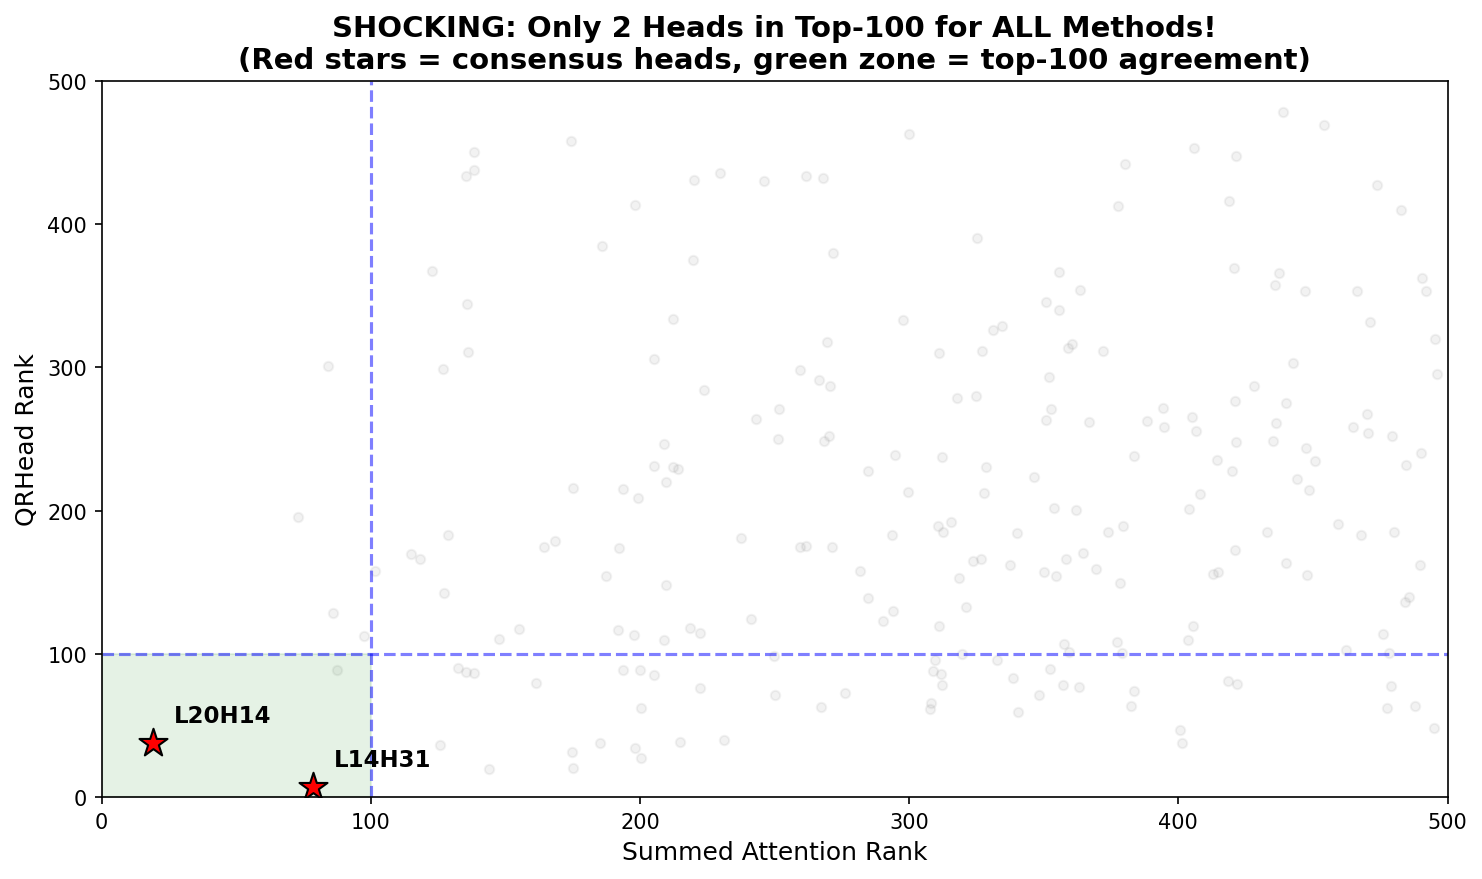
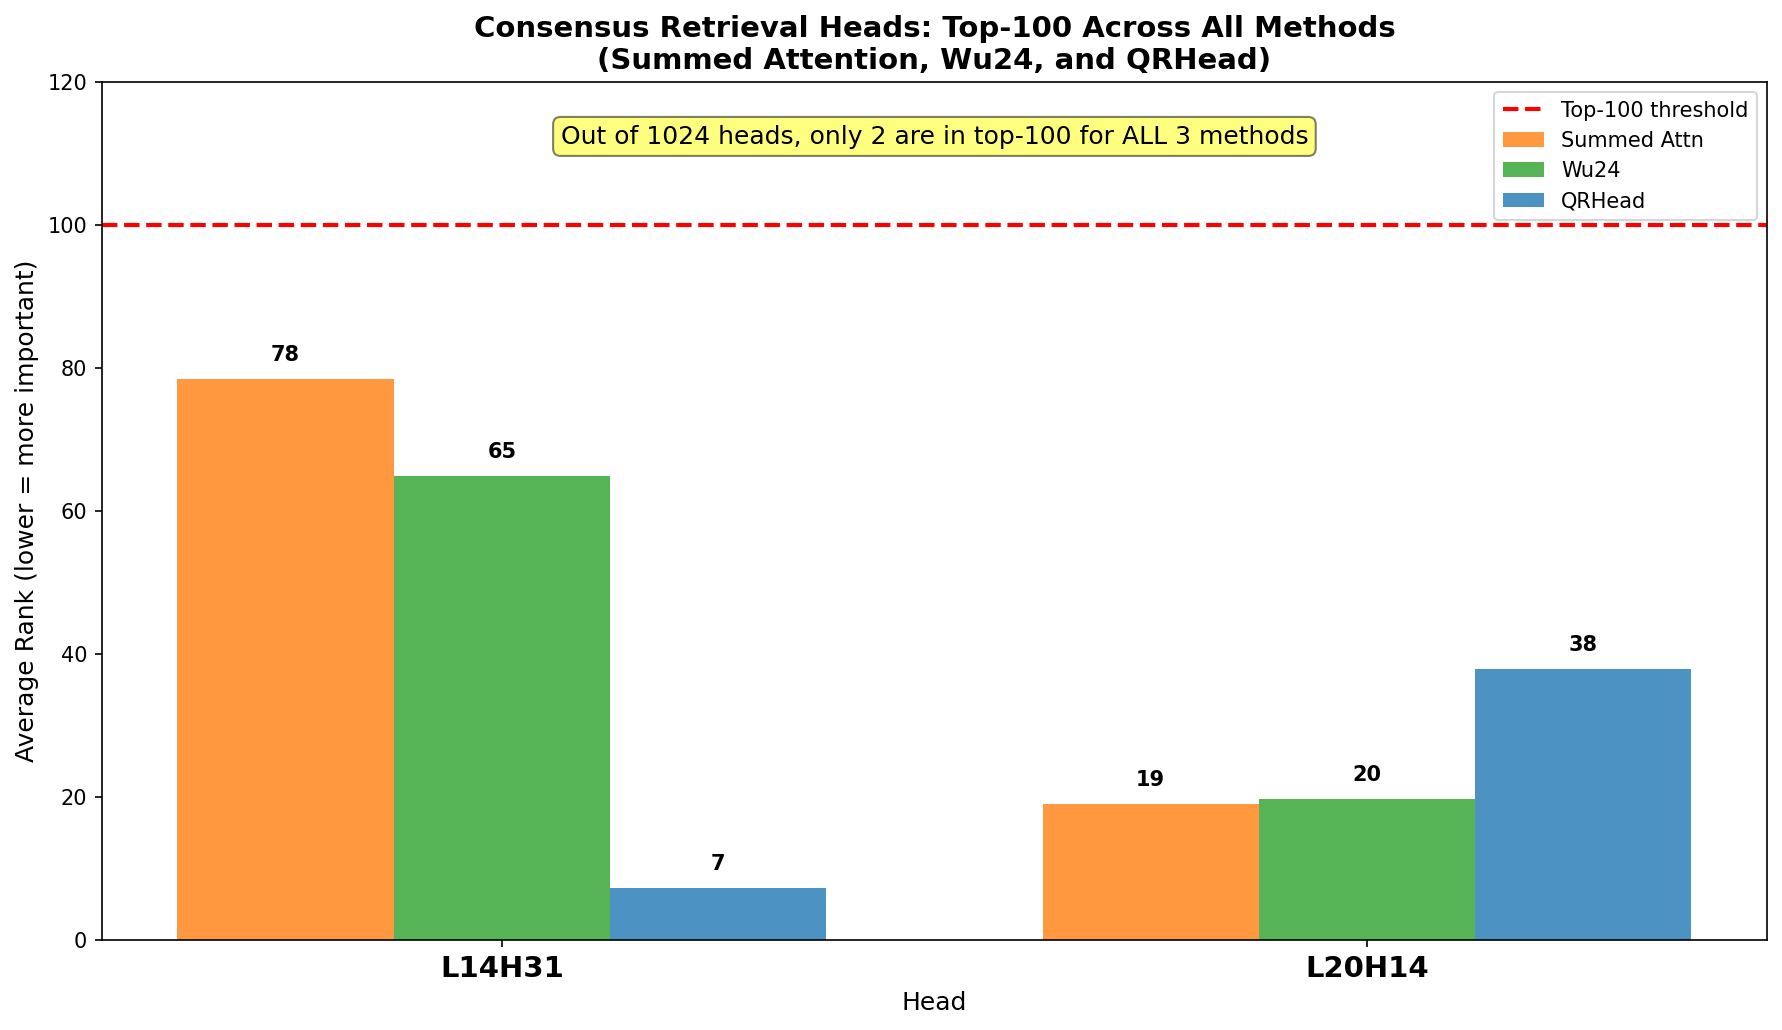
Fix consensus_heads figure to show all 3 methods
- Updated consensus_heads.png to display Summed Attention, Wu24, AND QRHead
- Shows rank values for each method on bar chart
- Removed "shocking" language from titles
- Clearer visualization of the 2 consensus heads (L14H31, L20H14)

Changed region(s): [[0.0, 0.0, 0.9933, 0.9829]]

diff --git a/deliverable_head_analysis/phase4/analysis/key_findings_viz.py b/deliverable_head_analysis/phase4/analysis/key_findings_viz.py
@@ -186,30 +186,38 @@ for h, avgs in head_avg_ranks.items():
     if all(v < 100 for v in avgs.values()):
         consensus.append((h, avgs))
 
-fig, ax = plt.subplots(figsize=(10, 6))
+fig, ax = plt.subplots(figsize=(12, 7))
 
-# Plot ALL heads as scatter, highlight consensus
-for h, avgs in head_avg_ranks.items():
-    if h in [c[0] for c in consensus]:
-        continue  # Plot these specially
-    ax.scatter(avgs['summed_attention'], avgs['qrhead'], alpha=0.1, c='gray', s=20)
+# Show consensus heads with their ranks for ALL 3 methods
+if consensus:
+    heads = [c[0] for c in consensus]
+    x = np.arange(len(heads))
+    width = 0.25
+    
+    colors = ['#ff7f0e', '#2ca02c', '#1f77b4']
+    for i, m in enumerate(METHODS):
+        ranks = [c[1][m] for c in consensus]
+        bars = ax.bar(x + i*width, ranks, width, label=MLABELS[m], color=colors[i], alpha=0.8)
+        # Add value labels on bars
+        for bar, rank in zip(bars, ranks):
+            ax.text(bar.get_x() + bar.get_width()/2, bar.get_height() + 2, 
+                   f'{rank:.0f}', ha='center', va='bottom', fontsize=10, fontweight='bold')
+    
+    ax.set_xticks(x + width)
+    ax.set_xticklabels(heads, fontsize=14, fontweight='bold')
+    ax.axhline(y=100, color='red', linestyle='--', linewidth=2, label='Top-100 threshold')
+    ax.set_ylabel("Average Rank (lower = more important)", fontsize=12)
+    ax.set_xlabel("Head", fontsize=12)
+    ax.legend(loc='upper right')
+    ax.set_ylim(0, 120)
 
-# Highlight consensus heads
-for h, avgs in consensus:
-    ax.scatter(avgs['summed_attention'], avgs['qrhead'], s=200, c='red', marker='*', 
-               edgecolors='black', linewidths=1, zorder=5)
-    ax.annotate(h, (avgs['summed_attention'], avgs['qrhead']), 
-                xytext=(10, 10), textcoords='offset points', fontsize=11, fontweight='bold')
+# Add text annotation
+ax.text(0.5, 0.95, f"Out of 1024 heads, only {len(consensus)} are in top-100 for ALL 3 methods",
+        transform=ax.transAxes, ha='center', va='top', fontsize=12, 
+        bbox=dict(boxstyle='round', facecolor='yellow', alpha=0.5))
 
-ax.axvline(x=100, color='blue', linestyle='--', alpha=0.5)
-ax.axhline(y=100, color='blue', linestyle='--', alpha=0.5)
-ax.fill_between([0, 100], [0, 0], [100, 100], alpha=0.1, color='green')
-ax.set_xlabel("Summed Attention Rank", fontsize=12)
-ax.set_ylabel("QRHead Rank", fontsize=12)
-ax.set_title(f"Only {len(consensus)} Heads in Top-100 for ALL Methods\n(Red stars = consensus heads, green zone = top-100 agreement)", 
+ax.set_title(f"Consensus Retrieval Heads: Top-100 Across All Methods\n(Summed Attention, Wu24, and QRHead)", 
              fontsize=14, fontweight='bold')
-ax.set_xlim(0, 500)
-ax.set_ylim(0, 500)
 plt.tight_layout()
 plt.savefig(f"{OUTPUT}/consensus_heads.png", dpi=150, bbox_inches='tight')
 plt.close()
